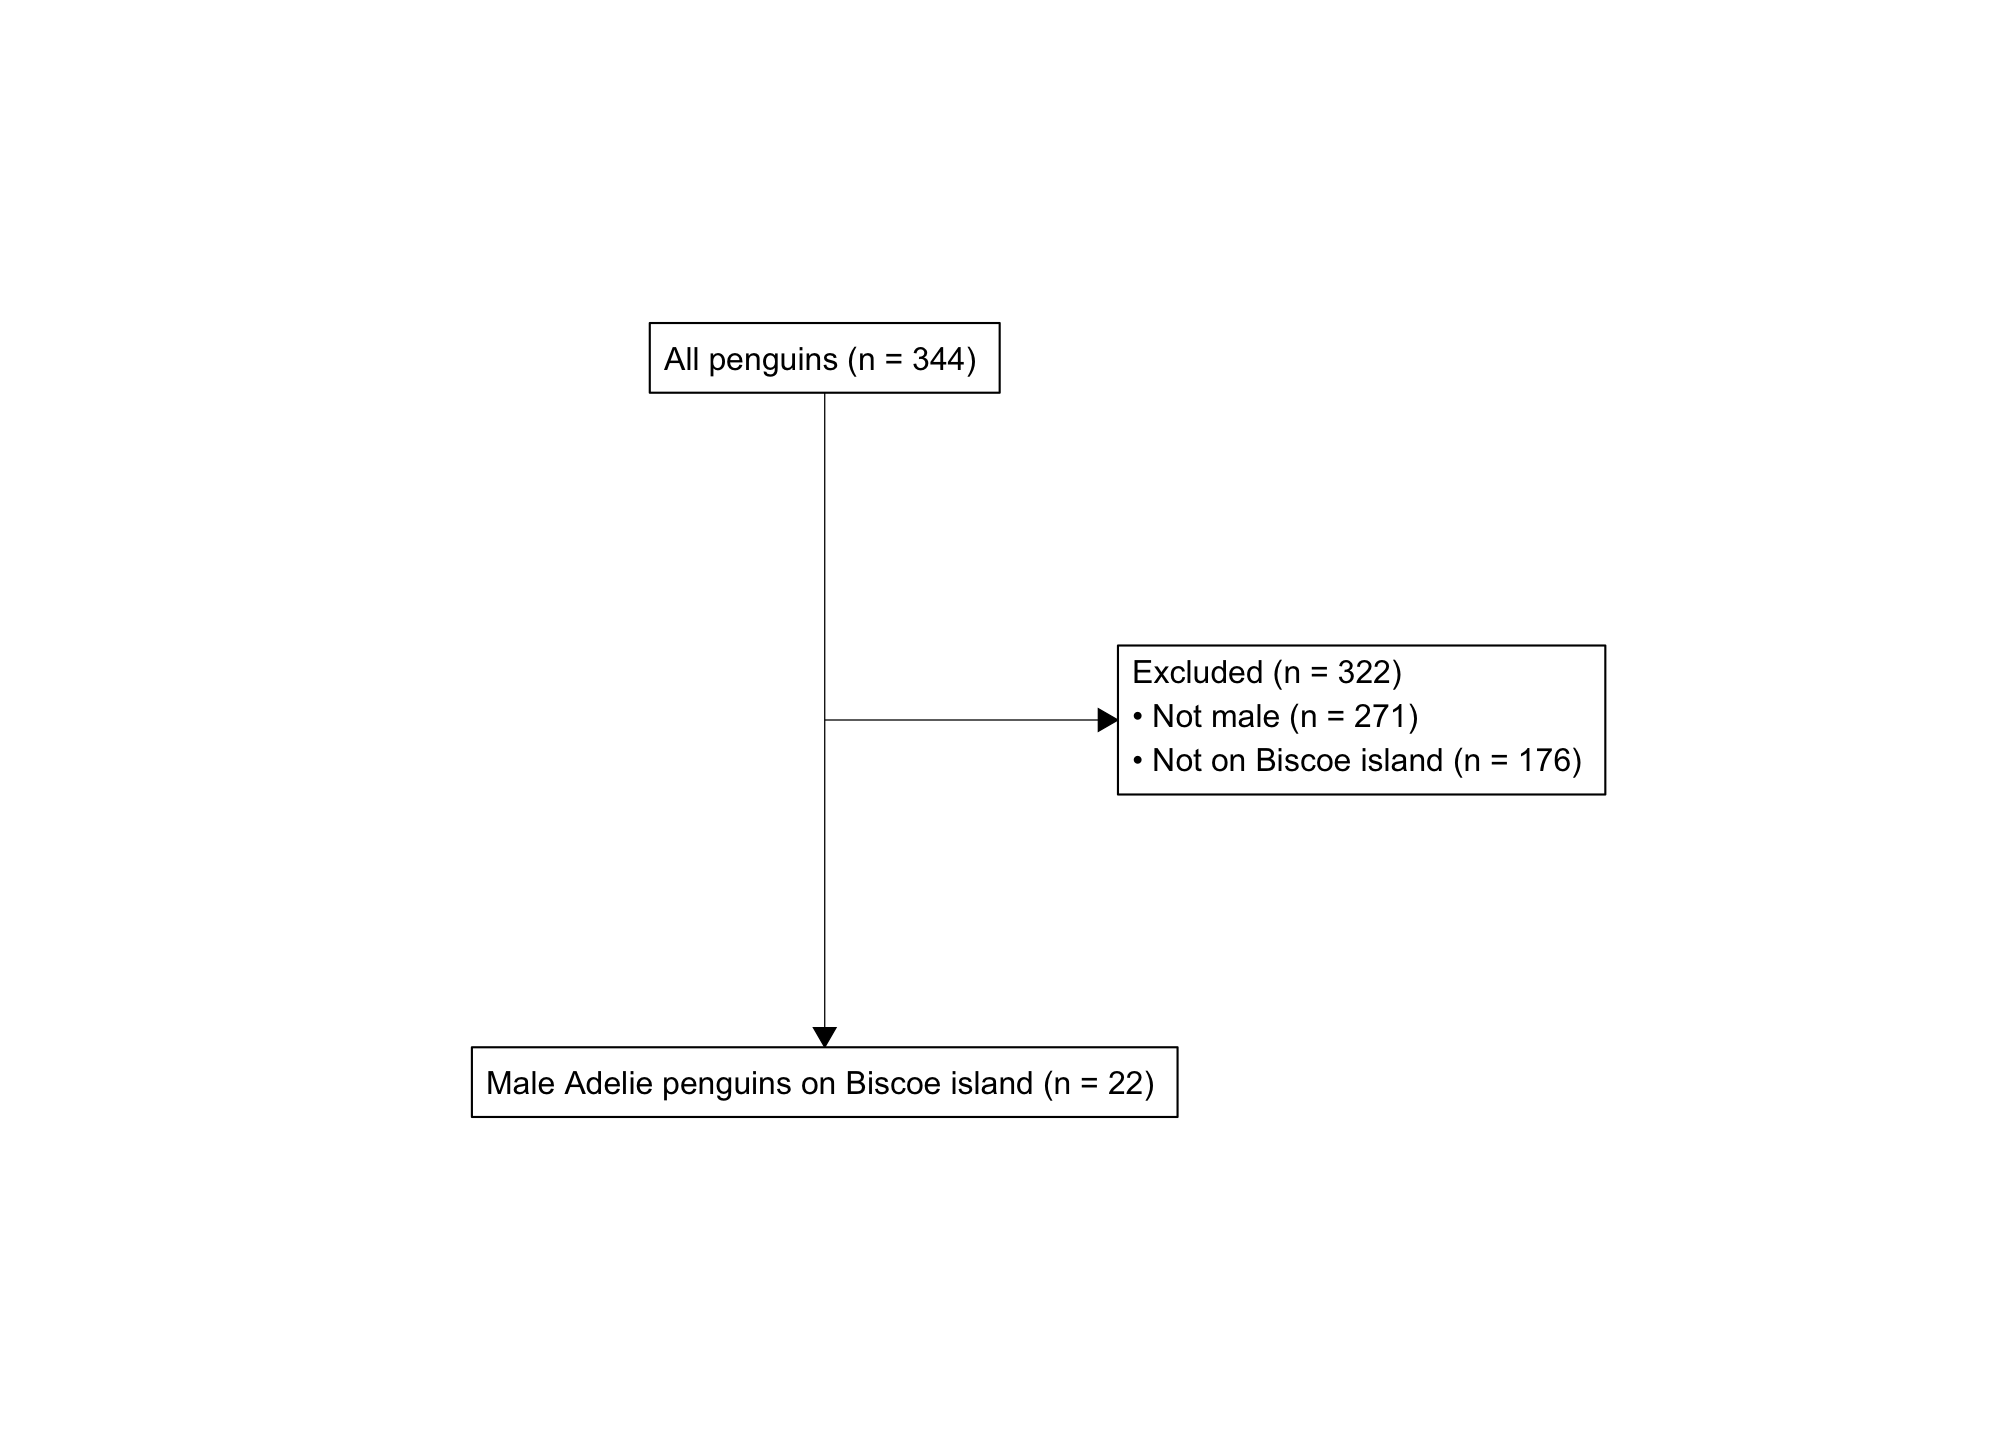
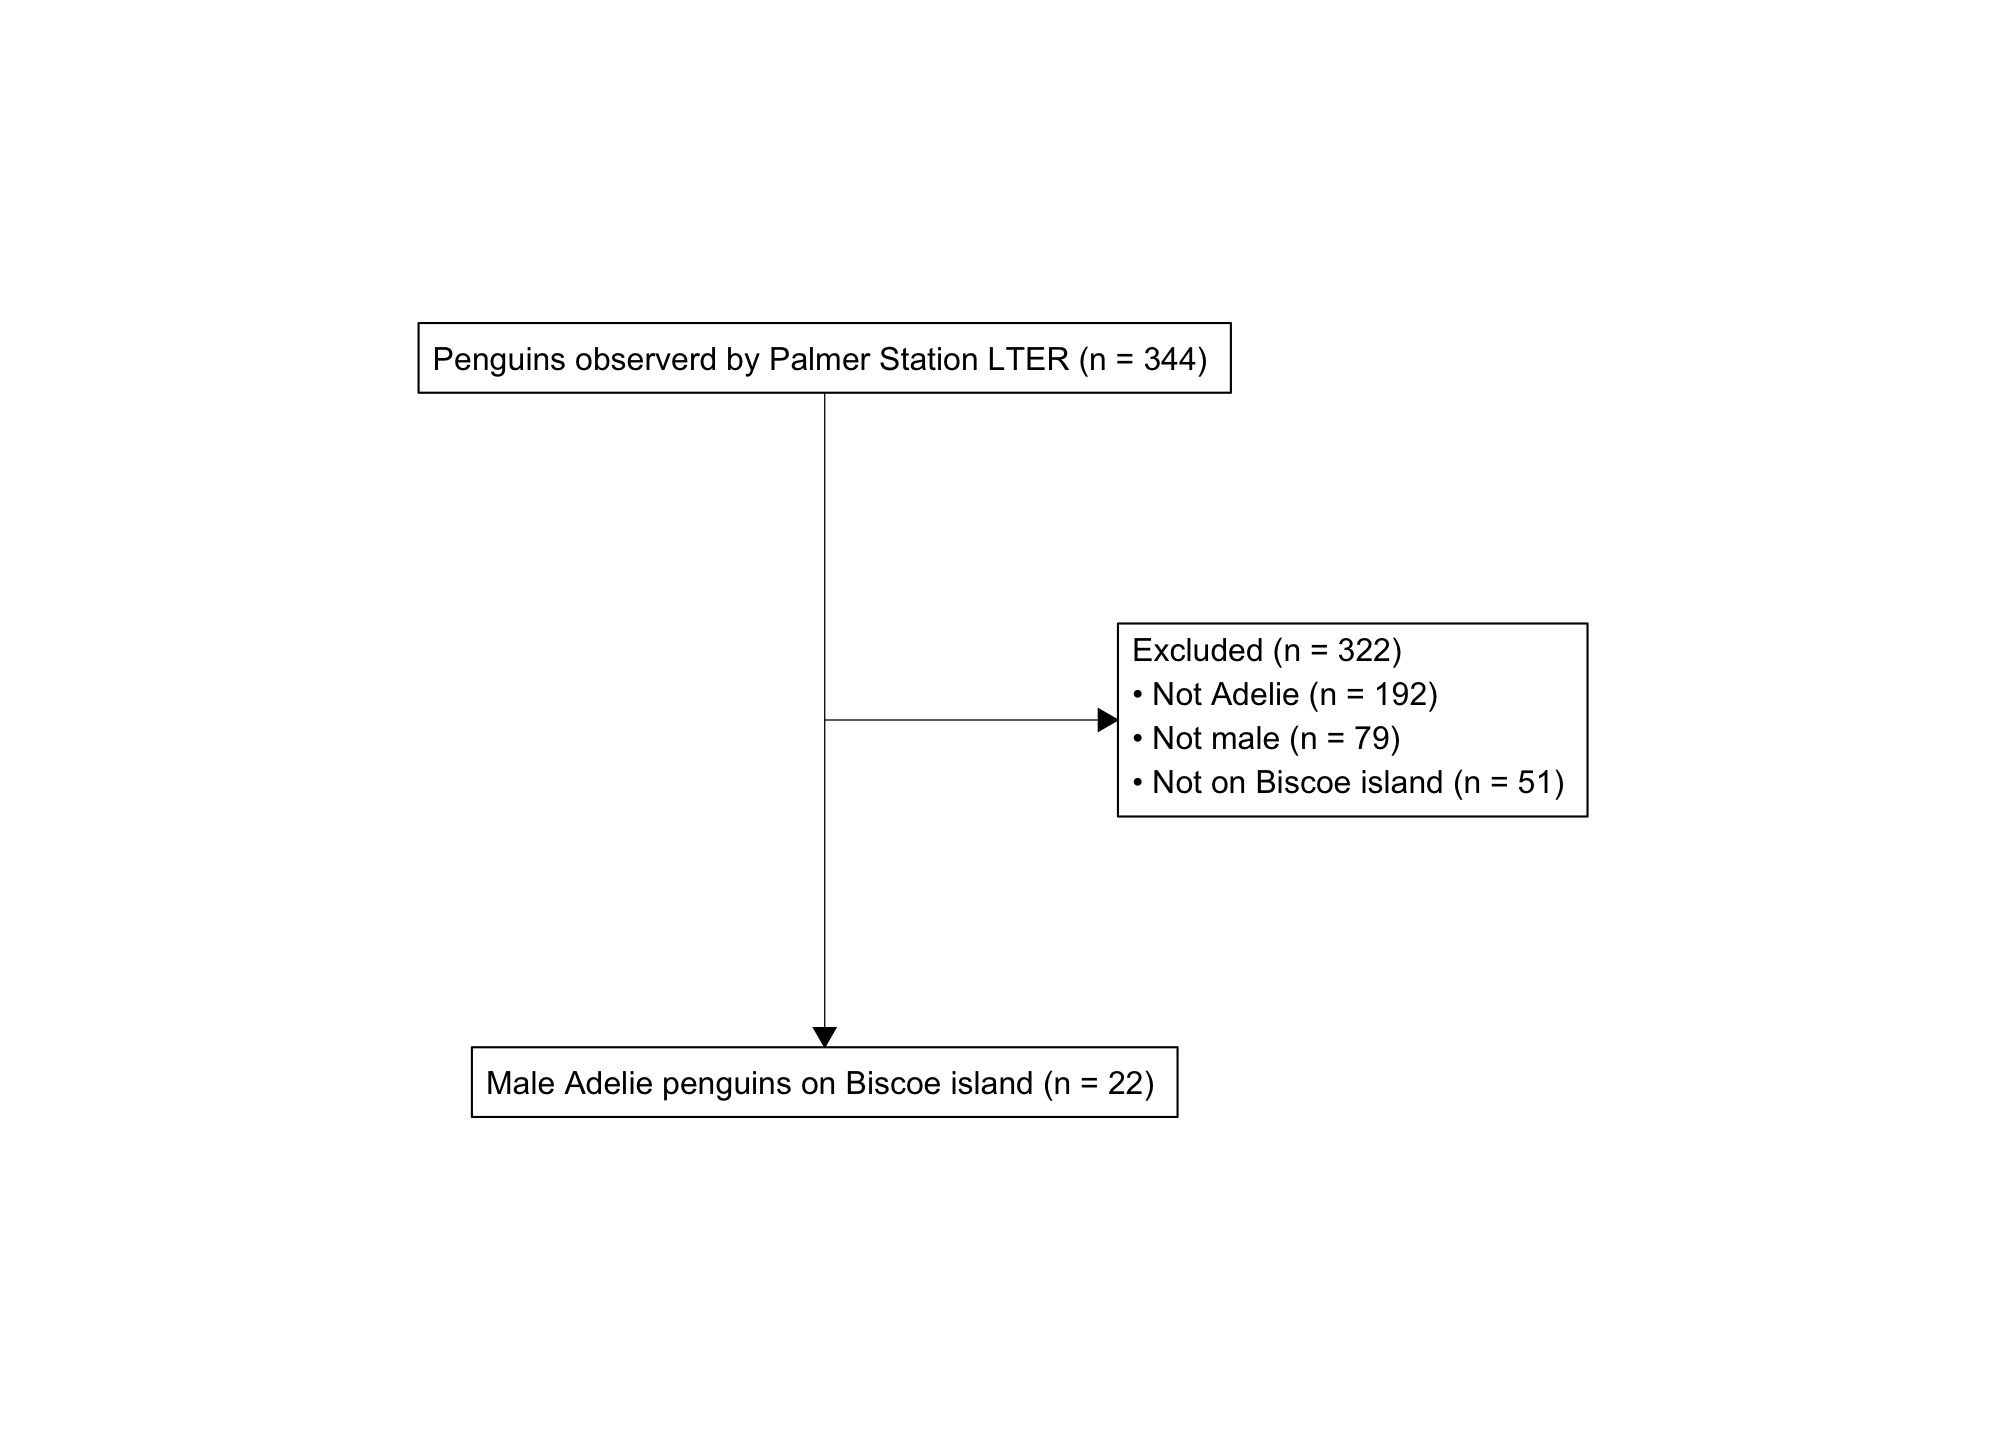
provide option to count by cohort in cohort_count

Changed region(s): [[0.5625, 0.4375, 0.8125, 0.5625], [0.2188, 0.2188, 0.5938, 0.2812], [0.7812, 0.4375, 0.8125, 0.4688]]

diff --git a/README.md b/README.md
@@ -50,14 +50,12 @@ penguin_cohorts <-
   cohort_define(
     adelie = .full %>% filter(species == "Adelie"),
     adelie_male = adelie %>% filter(sex == "male"),
-    biscoe = .full %>% filter(island == "Biscoe"),
-    biscoe_adelie_male = biscoe %>% semi_join(adelie_male, by = ".id")
+    biscoe_adelie_male = adelie_male %>% filter(island == "Biscoe")
   ) %>%
   # Provide text labels for cohorts ---------------------------
   cohort_label(
     adelie = "Adelie penguins",
     adelie_male = "Adelie male penguins",
-    biscoe = "Penguins on Biscoe island",
     biscoe_adelie_male = "Male Adelie penguins on Biscoe island"
   )
 ```
@@ -65,7 +63,6 @@ penguin_cohorts <-
 ``` r
 library(ggplot2)
 
-  
 ggplot(data = NULL) + 
   geom_consort_arrow(
     x = 0, xend = 0, y = 50, yend = 30 
@@ -76,11 +73,12 @@ ggplot(data = NULL) +
   geom_consort_box(
     x = 0, y = 50, vjust = 0,
     label = glue::glue(
-      'All penguins (n = {
-      penguin_cohorts %>% 
-        summary() %>% 
+      '{
+      cohort_count(penguin_cohorts) %>% 
         filter(cohort == ".full") %>% 
-        pull(count)
+        pull(label)
+      } (n = {
+        cohort_count(penguin_cohorts, ".full")
       })'
     )
   ) + 
@@ -88,30 +86,22 @@ ggplot(data = NULL) +
     x = 20, y = 40, hjust = 0,
     label = glue::glue(
       'Excluded (n = {
-        summary(penguin_cohorts) %>%
-          filter(cohort == ".full") %>% 
-          pull(count) - 
-        summary(penguin_cohorts) %>% 
-          filter(cohort == "biscoe_adelie_male") %>% 
-          pull(count)
+        cohort_count(penguin_cohorts, ".full") - 
+          cohort_count(penguin_cohorts, "biscoe_adelie_male")
+      })<br>
+      • Not Adelie (n = {
+        cohort_count(penguin_cohorts, ".full") - 
+          cohort_count(penguin_cohorts, "adelie")
       })<br>
       • Not male (n = {
-        summary(penguin_cohorts) %>% 
-          filter(cohort == ".full") %>% 
-          pull(count) - 
-        summary(penguin_cohorts) %>% 
-          filter(cohort == "adelie_male") %>% 
-          pull(count)
+        cohort_count(penguin_cohorts, "adelie") - 
+          cohort_count(penguin_cohorts, "adelie_male")
       })<br>
       • Not on Biscoe island (n = {
-        summary(penguin_cohorts) %>% 
-          filter(cohort == ".full") %>% 
-          pull(count) - 
-        summary(penguin_cohorts) %>% 
-          filter(cohort == "biscoe") %>% 
-          pull(count)
+        cohort_count(penguin_cohorts, "adelie_male") - 
+          cohort_count(penguin_cohorts, "biscoe_adelie_male")
       })
-      '###FIXME: the last count is not correct right now
+      '
     )
   ) +
   geom_consort_box(
